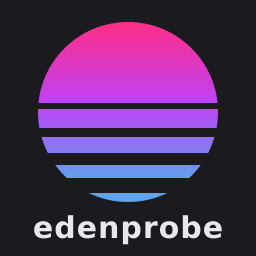
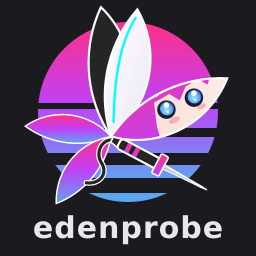
edenprobe: a cover with Wimsy as edenprobe, over the sunset
The program's own face: Wimsy in Eden's sunset colours, a test probe, on the banded sun.

Changed region(s): [[0.0938, 0.0, 0.9062, 0.8125]]

diff --git a/docs/Versions.md b/docs/Versions.md
@@ -9,6 +9,9 @@ agrees, or when the difference between the builds is what is being measured. The
 what a case asks or how it judges changes: a new suite or case is a minor step, a changed verdict
 for an existing case at least that, and the counts in these pages move with it.
 
-The cover a loader shows is `icon.jpg`, drawn from `static/icon.svg` (the reden mark, the Eden
-sunset without the palm, on the site's dark ground) by `make icon`; the JPEG is committed so a build
-needs neither drawing tool.
+The cover a loader shows is `icon.jpg`, drawn from `static/icon.svg` by `make icon`; the JPEG is
+committed so a build needs neither drawing tool. The cover is Wimsy as edenprobe, in Eden's sunset
+colours with a test probe, over the reden mark (the Eden sunset without the palm, cut by its
+bands) on the site's dark ground, with the program's name. `static/icon.svg` is made in
+wimsy-dist (https://github.com/scarletnx/wimsy-dist, `tools/make_edenprobe.py`), where Wimsy's
+other designs are.

diff --git a/docs/Credits.md b/docs/Credits.md
@@ -134,3 +134,8 @@
     OUT OF OR IN CONNECTION WITH THE SOFTWARE OR THE USE OR OTHER DEALINGS IN THE
     SOFTWARE.
     ```
+
+- **Wimsy**, ScarletNX's mascot, drawn by Liz (ScarletNX's `dist/wimsy.svg`, GPL-3.0-or-later):
+  `static/icon.svg`, the cover, draws her as edenprobe, in Eden's sunset colours (Eden's
+  `dist/dev.eden_emu.eden.svg`) with a test probe. wimsy-dist's `tools/make_edenprobe.py`
+  (https://github.com/scarletnx/wimsy-dist) makes it from her shapes, as it makes her other designs.
